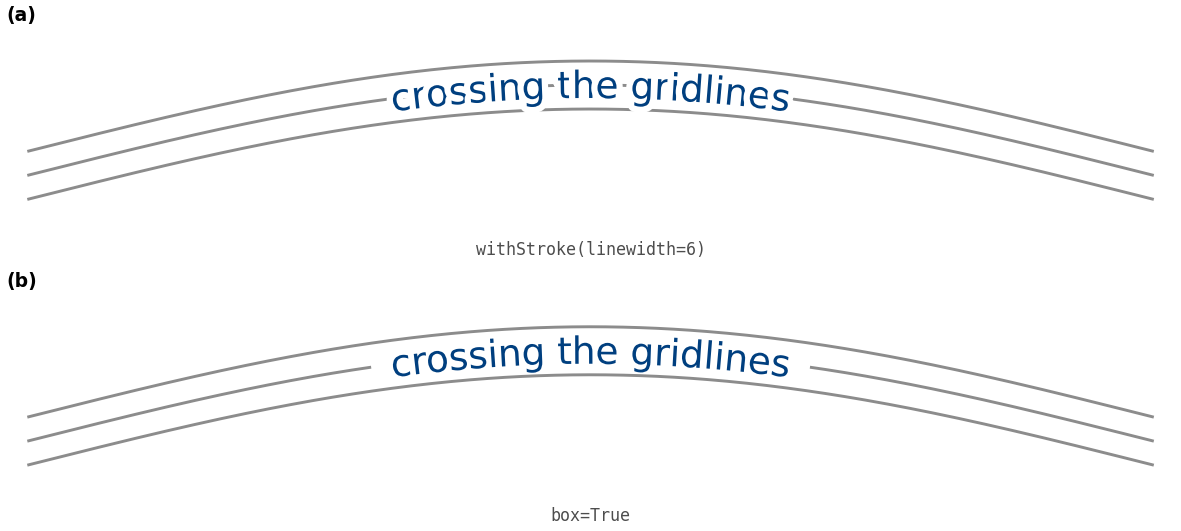
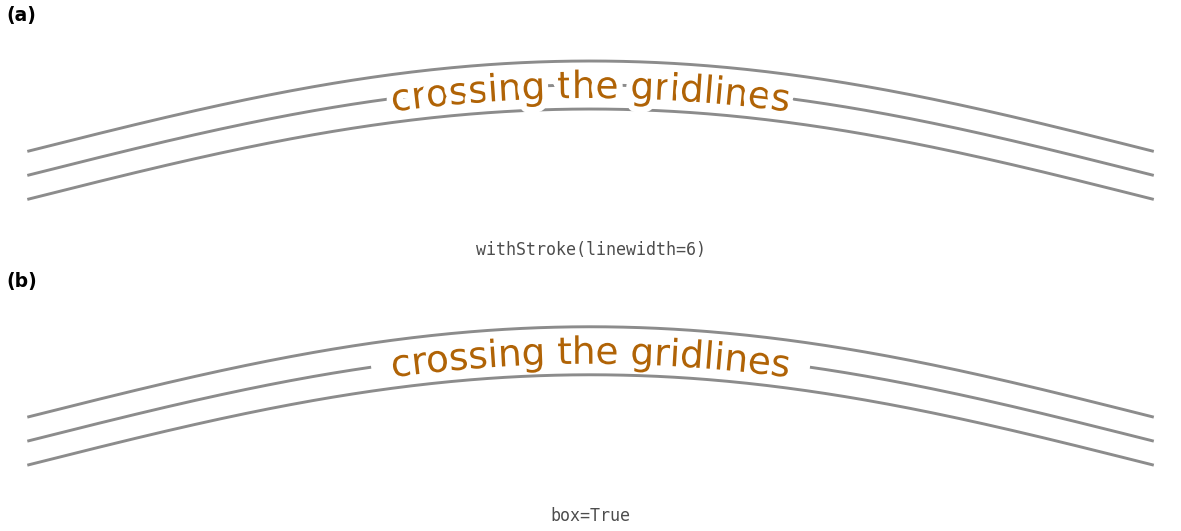
Halo the anchor rings, keep the direct labels by their own curves, align multi-line captions, and give 15 its heading and literal call

Changed region(s): [[0.3353, 0.1205, 0.6706, 0.2109], [0.3353, 0.6328, 0.6706, 0.7232]]

diff --git a/examples/_style.py b/examples/_style.py
@@ -1,6 +1,7 @@
 """Shared palette and helpers for the curved-text example gallery.
 
-Follows the repo's plot conventions: colorblind-safe palette, white opaque
+Follows the repo's plot conventions: the DICE palette with contrast-checked
+text shades, white opaque
 background, constrained layout, sizes in centimetres, explicit dpi. Most panels
 here are diagrams whose subject is the text-on-curve geometry, so they hide
 their axes -- the curve is the data, and bare quantitative ticks would be
@@ -9,6 +10,7 @@ with units.
 """
 from __future__ import annotations
 
+import matplotlib.patheffects as patheffects
 import numpy as np
 import matplotlib.pyplot as plt
 
@@ -26,7 +28,8 @@ TEXT = {
 # the curve in DICE blue, the label in dark gold, and a reference mark (such as
 # the anchor point) as a dark green ring drawn above the label, so it never
 # hides behind the text. Data figures colour each series in its DICE hue and
-# its label in the matching text shade.
+# its label in the matching text shade. One exception: 08 shows ``alpha``, which
+# lightens its label, and only dark blue stays above 4.5:1 at alpha 0.85.
 CURVE_COLOR = PALETTE["blue"]
 LABEL_COLOR = TEXT["gold"]
 MARK_COLOR = TEXT["green"]
@@ -59,18 +62,23 @@ def bare(ax):
 
 
 def caption(ax, text, font_size=8):
-    """A monospace caption under a panel -- usually the call that drew it.
-    Dollar signs are escaped, so the caption shows the call as written, not
-    a mathtext rendering of it."""
+    """A monospace caption under a panel, usually the call that drew it.
+
+    Dollar signs are escaped, so the caption shows the call as written, not a
+    mathtext rendering of it, and the lines of a long call keep their
+    indentation, aligned left within the centred block.
+    """
     ax.text(0.5, -0.06, text.replace("$", r"\$"), transform=ax.transAxes,
-            ha="center", va="top", fontsize=font_size, family="monospace",
-            color="0.30")
+            ha="center", va="top", multialignment="left", fontsize=font_size,
+            family="monospace", color="0.30")
 
 
 def panel_letters(axes, font_size=9):
-    """Letter the panels of a multi-panel figure (a), (b), ... in bold, just
-    above each panel's upper left corner, in reading order, clear of the
-    panel's tick labels and data."""
+    """Letter the panels of a multi-panel figure (a), (b), ... in bold.
+
+    Each letter sits just above its panel's upper left corner, in reading
+    order, clear of the panel's tick labels and data.
+    """
     for index, ax in enumerate(np.ravel(axes)):
         ax.annotate(f"({chr(ord('a') + index)})", xy=(0.0, 1.0),
                     xycoords="axes fraction", xytext=(0.0, 3.0),
@@ -79,10 +87,17 @@ def panel_letters(axes, font_size=9):
 
 
 def anchor_mark(ax, x, y):
-    """A ring at data point ``(x, y)``, drawn above the label so the text
-    never covers it, in the reference-mark colour."""
+    """A ring at data point ``(x, y)`` in the reference-mark colour.
+
+    It is drawn above the label, so the text never covers it, with a thin
+    white halo, so it stays apart from a glyph it crosses even where its hue
+    and the label's look alike, as dark green and dark gold do to a reader
+    with red-green colour blindness (both have the same luminance).
+    """
     ax.plot([x], [y], "o", markersize=7, markerfacecolor="none",
-            markeredgecolor=MARK_COLOR, markeredgewidth=1.5, zorder=10)
+            markeredgecolor=MARK_COLOR, markeredgewidth=1.5, zorder=10,
+            path_effects=[patheffects.withStroke(linewidth=3.5,
+                                                 foreground="white")])
 
 
 def anchor_xy(ax, x, y, pos):

diff --git a/examples/example_01_direct_labeling.py b/examples/example_01_direct_labeling.py
@@ -1,8 +1,8 @@
 """Tier 1: direct labeling replaces the legend.
 
-The case for the tool, in one figure. Left: three cooling curves with a
+The case for the tool, in one figure. (a): three cooling curves with a
 conventional legend -- the eye must leave the data, find the key, decode a
-colour, and come back. Right: the same curves labeled along their own paths.
+colour, and come back. (b): the same curves labeled along their own paths.
 No legend, no colour key, no round trip.
 """
 from __future__ import annotations
@@ -15,7 +15,7 @@ from curved_text import curved_text
 from _style import PALETTE, TEXT, data_axes, figure, panel_letters, save
 
 SERIES = [
-    (1.5, "blue", 0.30),
+    (1.5, "blue", 0.38),
     (3.0, "gold", 0.42),
     (6.0, "green", 0.58),
 ]
@@ -50,7 +50,7 @@ def make(images_dir):
     data_axes(ax_direct)
     for t, temp, tau, hue, pos in curves:
         curved_text(ax_direct, t, temp, f"τ = {tau:g} s",
-                    pos=pos, anchor="center", offset=9.0,
+                    pos=pos, anchor="center", offset=8.0,
                     color=TEXT[hue], fontsize=9)
 
     panel_letters([ax_legend, ax_direct])

diff --git a/examples/example_13_crowding.py b/examples/example_13_crowding.py
@@ -7,8 +7,8 @@ gap that grows with the local curvature, so the inside edges stop colliding. The
 gap is the same between every pair of letters, so the tracking stays even, and
 it has a deadband: a gentle bend or a straight run is left untouched.
 
-Top row: a sharp bend, where the correction visibly separates the letters.
-Bottom row: a gentle bend of the same letters, where the bend is below the
+(a) and (b): a sharp bend, where the correction visibly separates the letters.
+(c) and (d): a gentle bend of the same letters, where the bend is below the
 deadband and the two columns are identical.
 """
 from __future__ import annotations
@@ -18,7 +18,8 @@ import os
 import numpy as np
 
 from curved_text import curved_text
-from _style import CURVE_COLOR, LABEL_COLOR, bare, caption, figure, panel_letters, save
+from _style import (CURVE_COLOR, LABEL_COLOR, bare, caption, figure,
+                    panel_letters, save)
 
 WORD = "winds"
 MODES = ["none", "curvature"]

diff --git a/examples/example_04_anchor_triptych.py b/examples/example_04_anchor_triptych.py
@@ -1,8 +1,8 @@
 """Tier 2: the ``anchor`` control -- which part of the label lands at ``pos``.
 
 Same curve, same ``pos=0.5``; only ``anchor`` varies across start / center /
-end. The green dot is fixed at ``pos`` in every panel; watch which part of
-the word -- its start, middle, or end -- sits on the dot.
+end. The ring is fixed at ``pos`` in every panel; watch which part of the
+word -- its start, middle, or end -- sits on the ring.
 """
 from __future__ import annotations
 
@@ -11,8 +11,8 @@ import os
 import numpy as np
 
 from curved_text import curved_text
-from _style import (CURVE_COLOR, LABEL_COLOR, anchor_mark, anchor_xy, bare, caption,
-                    figure, panel_letters, save)
+from _style import (CURVE_COLOR, LABEL_COLOR, anchor_mark, anchor_xy, bare,
+                    caption, figure, panel_letters, save)
 
 ANCHORS = ["start", "center", "end"]
 POS = 0.5

diff --git a/examples/example_05_offset_ladder.py b/examples/example_05_offset_ladder.py
@@ -13,8 +13,8 @@ import os
 import numpy as np
 
 from curved_text import curved_text
-from _style import (CURVE_COLOR, LABEL_COLOR, anchor_mark, anchor_xy, bare, caption,
-                    figure, panel_letters, save)
+from _style import (CURVE_COLOR, LABEL_COLOR, anchor_mark, anchor_xy, bare,
+                    caption, figure, panel_letters, save)
 
 OFFSETS = [-14.0, 0.0, 14.0]
 POS = 0.5
@@ -33,8 +33,7 @@ def make(images_dir):
         ax.set_xlim(-0.05, 1.05)
         ax.set_ylim(-0.35, 0.95)
         curved_text(ax, x, y, "offset", pos=POS, anchor="center",
-                            offset=offset, color=LABEL_COLOR,
-                            fontsize=11)
+                    offset=offset, color=LABEL_COLOR, fontsize=11)
         caption(ax, f"offset={offset:g}")
 
     # Mark the on-curve anchor the offset is measured from: a ring above the

diff --git a/examples/example_15_mixed_alignment.py b/examples/example_15_mixed_alignment.py
@@ -13,7 +13,7 @@ import os
 import numpy as np
 
 from curved_text import curved_text
-from _style import CURVE_COLOR, LABEL_COLOR, figure, bare, caption, save
+from _style import CURVE_COLOR, LABEL_COLOR, bare, caption, figure, save
 
 LABEL = r"mass $m$ and speed $c$ give $E = mc^2$"
 
@@ -34,8 +34,8 @@ def make(images_dir):
     curved_text(ax, x, y, LABEL, pos=0.5, anchor="center",
                 valign="baseline", color=LABEL_COLOR, fontsize=15)
 
-    caption(ax, 'plain words and math runs ride one baseline '
-                '(valign="baseline")')
+    caption(ax, 'curved_text(ax, x, y, r"mass $m$ and speed $c$ give '
+                '$E = mc^2$",\n            valign="baseline")')
 
     path = os.path.join(images_dir, "15_mixed_alignment.png")
     return save(fig, path)

diff --git a/examples/example_16_usetex.py b/examples/example_16_usetex.py
@@ -18,10 +18,10 @@ import matplotlib as mpl
 import numpy as np
 
 from curved_text import curved_text
-from _style import PALETTE, TEXT, figure, data_axes, save
+from _style import PALETTE, TEXT, data_axes, figure, save
 
 SERIES = [
-    (1.5, "blue", 0.30),
+    (1.5, "blue", 0.38),
     (3.0, "gold", 0.42),
     (6.0, "green", 0.58),
 ]
@@ -45,7 +45,7 @@ def make(images_dir):
             # label reads like example 01's and shows both paths LaTeX
             # typesets.
             curved_text(ax, t, temp, rf"$\tau$ = {tau:g} s",
-                        pos=pos, anchor="center", offset=9.0,
+                        pos=pos, anchor="center", offset=8.0,
                         color=TEXT[hue], fontsize=10)
         ax.set_xlim(0, 10)
         ax.set_ylim(0, 105)

diff --git a/examples/example_12_box_vs_stroke.py b/examples/example_12_box_vs_stroke.py
@@ -14,7 +14,7 @@ import numpy as np
 import matplotlib.patheffects as pe
 
 from curved_text import curved_text
-from _style import TEXT, bare, caption, figure, panel_letters, save
+from _style import LABEL_COLOR, bare, caption, figure, panel_letters, save
 
 LABEL = "crossing the gridlines"
 
@@ -40,7 +40,7 @@ def make(images_dir):
         ax.set_xlim(-0.2, 10.2)
         ax.set_ylim(-0.9, 2.4)
         curved_text(ax, x, y, LABEL, pos=0.5, anchor="center", offset=0.0,
-                    color=TEXT["blue"], fontsize=18, **kwargs)
+                    color=LABEL_COLOR, fontsize=18, **kwargs)
         caption(ax, label)
 
     panel_letters(axes)

diff --git a/examples/example_09_seaborn_pandas.py b/examples/example_09_seaborn_pandas.py
@@ -12,7 +12,7 @@ import os
 import numpy as np
 
 from curved_text import curved_text
-from _style import CURVE_COLOR, LABEL_COLOR, data_axes, figure, save
+from _style import CURVE_COLOR, TEXT, data_axes, figure, save
 
 
 def make(images_dir):
@@ -33,7 +33,7 @@ def make(images_dir):
     data_axes(ax)
     curved_text(ax, df["x"], df["y"], "drawn on a seaborn axes",
                 pos=0.5, anchor="center", offset=8.0,
-                color=LABEL_COLOR, fontsize=11)
+                color=TEXT["blue"], fontsize=11)
 
     path = os.path.join(images_dir, "09_seaborn_pandas.png")
     return save(fig, path)

diff --git a/examples/example_06_overrun_tangent.py b/examples/example_06_overrun_tangent.py
@@ -12,7 +12,7 @@ import os
 import numpy as np
 
 from curved_text import curved_text
-from _style import CURVE_COLOR, LABEL_COLOR, figure, bare, caption, save
+from _style import CURVE_COLOR, LABEL_COLOR, bare, caption, figure, save
 
 
 def make(images_dir):
@@ -30,7 +30,7 @@ def make(images_dir):
     ux, uy = dx / norm, dy / norm
     ext = 0.9
     ax.plot([x[-1], x[-1] + ux * ext], [y[-1], y[-1] + uy * ext],
-            linestyle="--", color="0.6", linewidth=1.2)
+            linestyle="--", color="0.55", linewidth=1.2)
 
     ax.set_xlim(-0.05, 1.75)
     ax.set_ylim(-0.55, 0.85)

diff --git a/examples/example_03_pos_sweep.py b/examples/example_03_pos_sweep.py
@@ -11,8 +11,8 @@ import os
 import numpy as np
 
 from curved_text import curved_text
-from _style import (CURVE_COLOR, LABEL_COLOR, anchor_mark, anchor_xy, bare, caption,
-                    figure, panel_letters, save)
+from _style import (CURVE_COLOR, LABEL_COLOR, anchor_mark, anchor_xy, bare,
+                    caption, figure, panel_letters, save)
 
 POSITIONS = [0.0, 0.25, 0.5, 0.75, 1.0]
 

diff --git a/examples/example_14_valign.py b/examples/example_14_valign.py
@@ -19,7 +19,8 @@ import os
 import numpy as np
 
 from curved_text import curved_text
-from _style import CURVE_COLOR, LABEL_COLOR, bare, caption, figure, panel_letters, save
+from _style import (CURVE_COLOR, LABEL_COLOR, bare, caption, figure,
+                    panel_letters, save)
 
 WORD = "Amplitude"
 MODES = ["center", "baseline", "ascender", "descender"]
